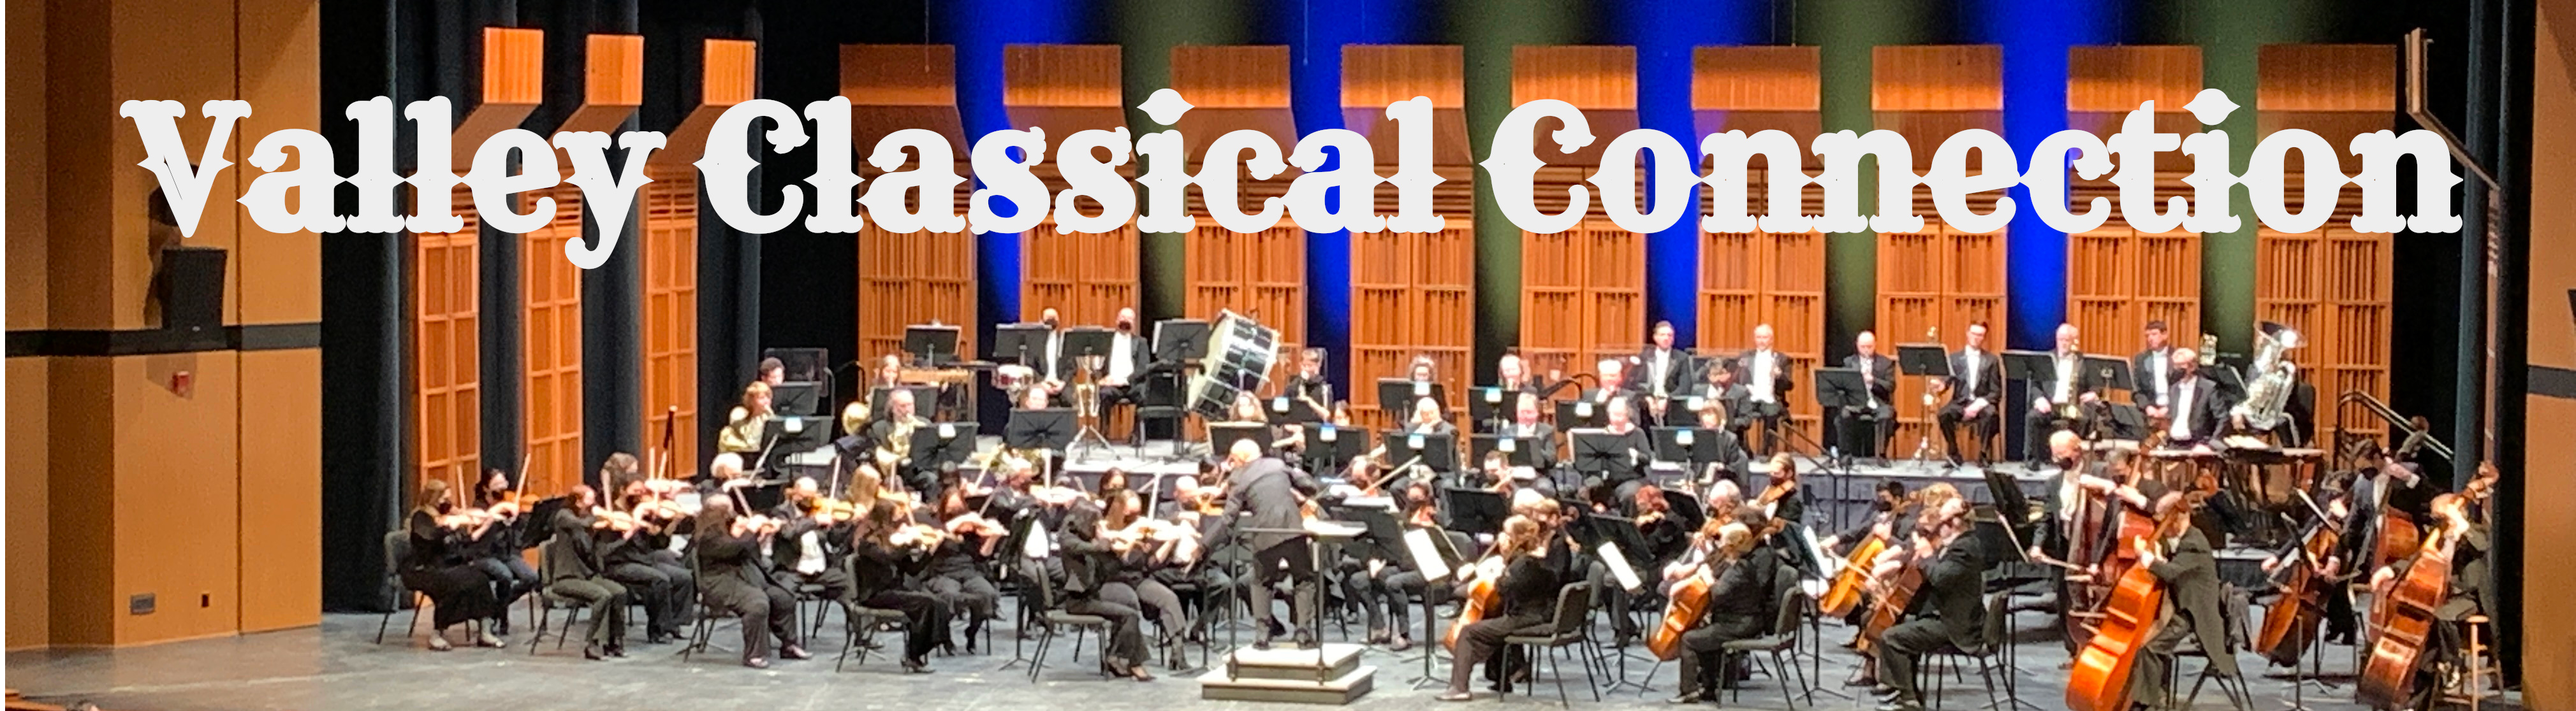
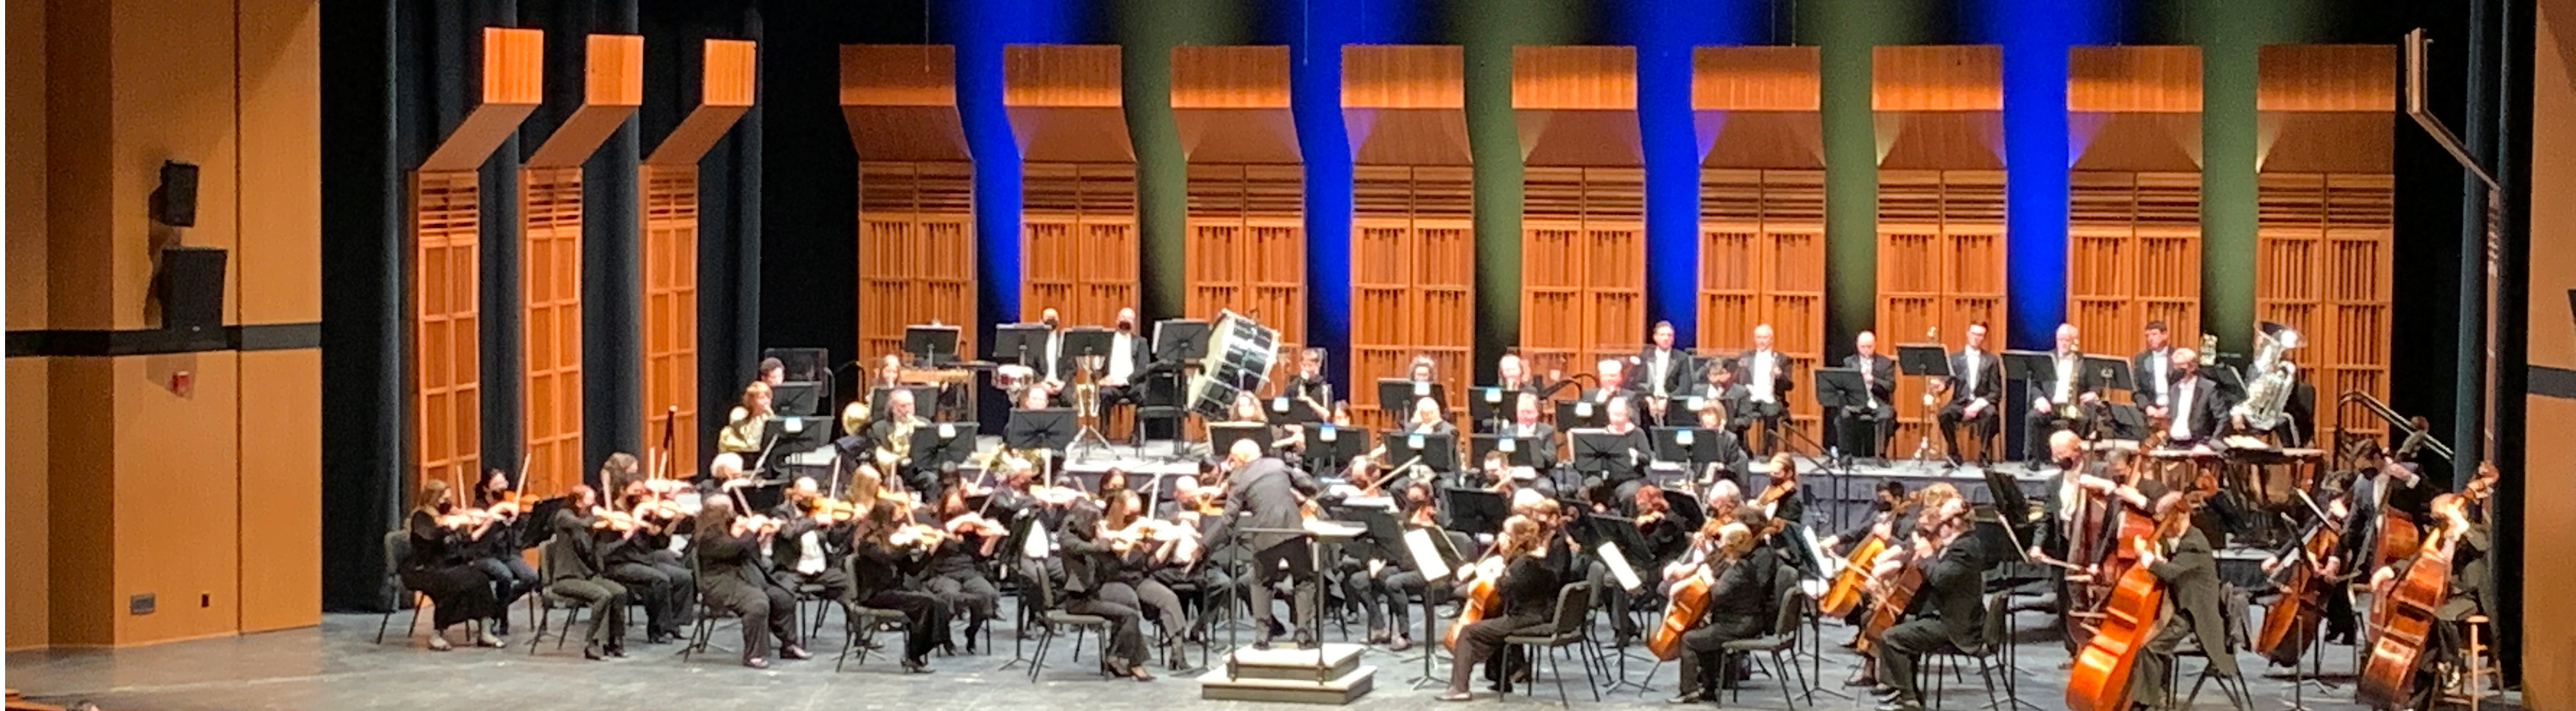
Fixed image.

Changed region(s): [[0.0312, 0.1219, 0.9668, 0.3961]]

diff --git a/_layouts/default.html b/_layouts/default.html
@@ -10,8 +10,8 @@
     {% include head-custom.html %}
   </head>
   <body>
-    <div style="max-width: 100%;" class="container-lg px-3 my-5 markdown-body">
-      <img src="valley-classical-connection.jpg" alt="Valley Classical Connection" />
+    <div class="container-lg px-3 my-5 markdown-body">
+      <img style="max-width: 100%;" src="valley-classical-connection.jpg" alt="Valley Classical Connection" />
 
       {{ content }}
 
